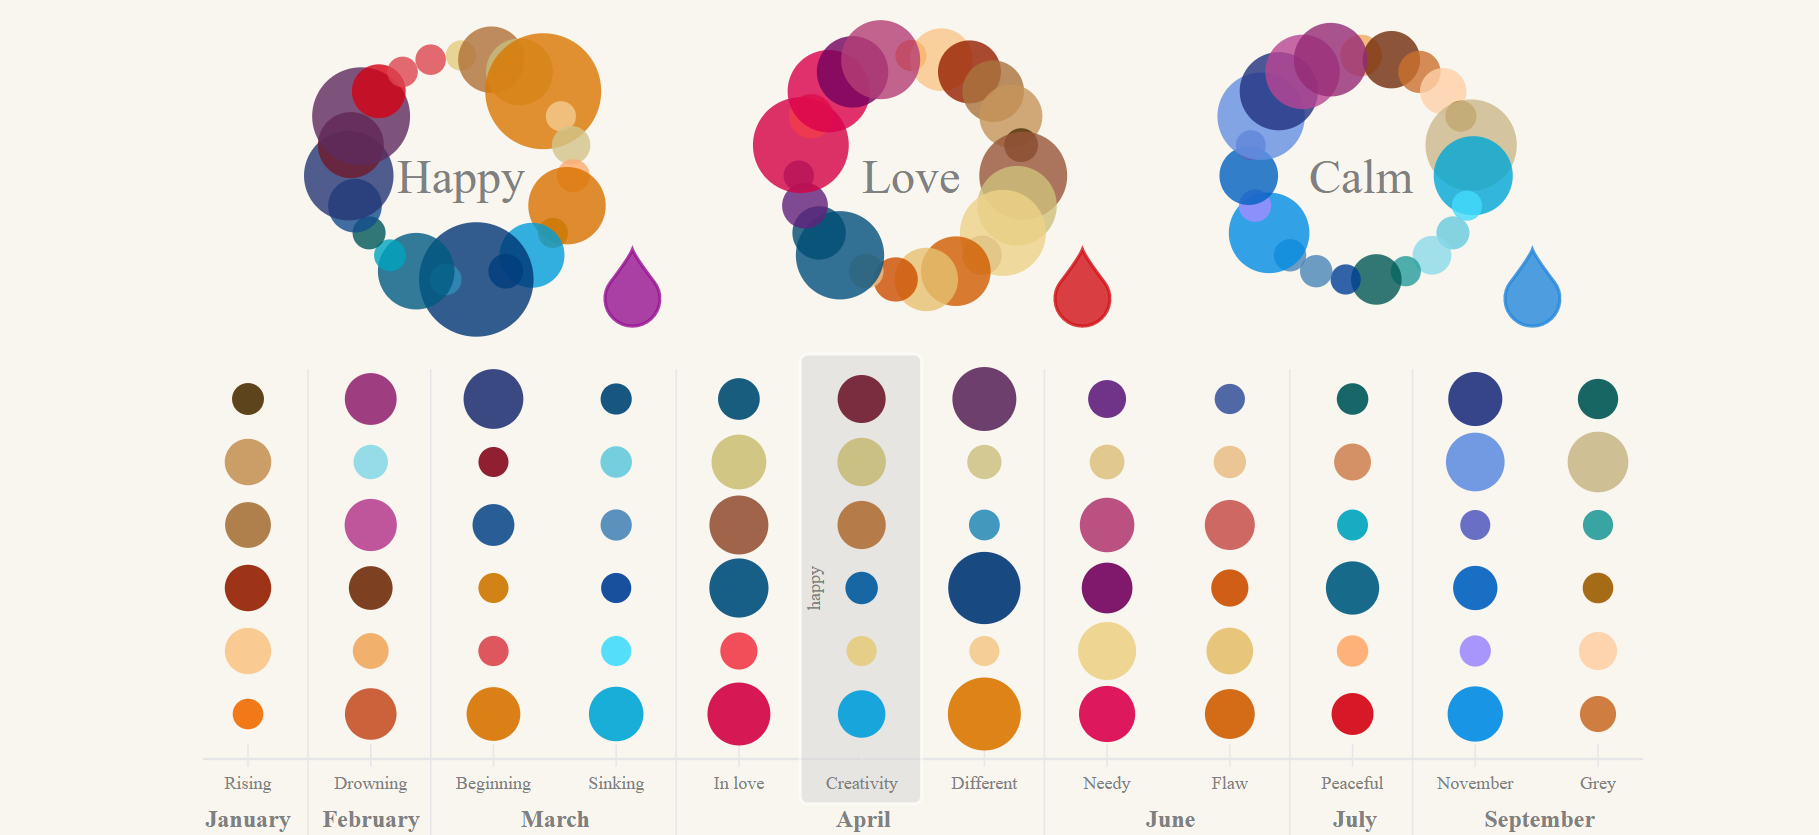
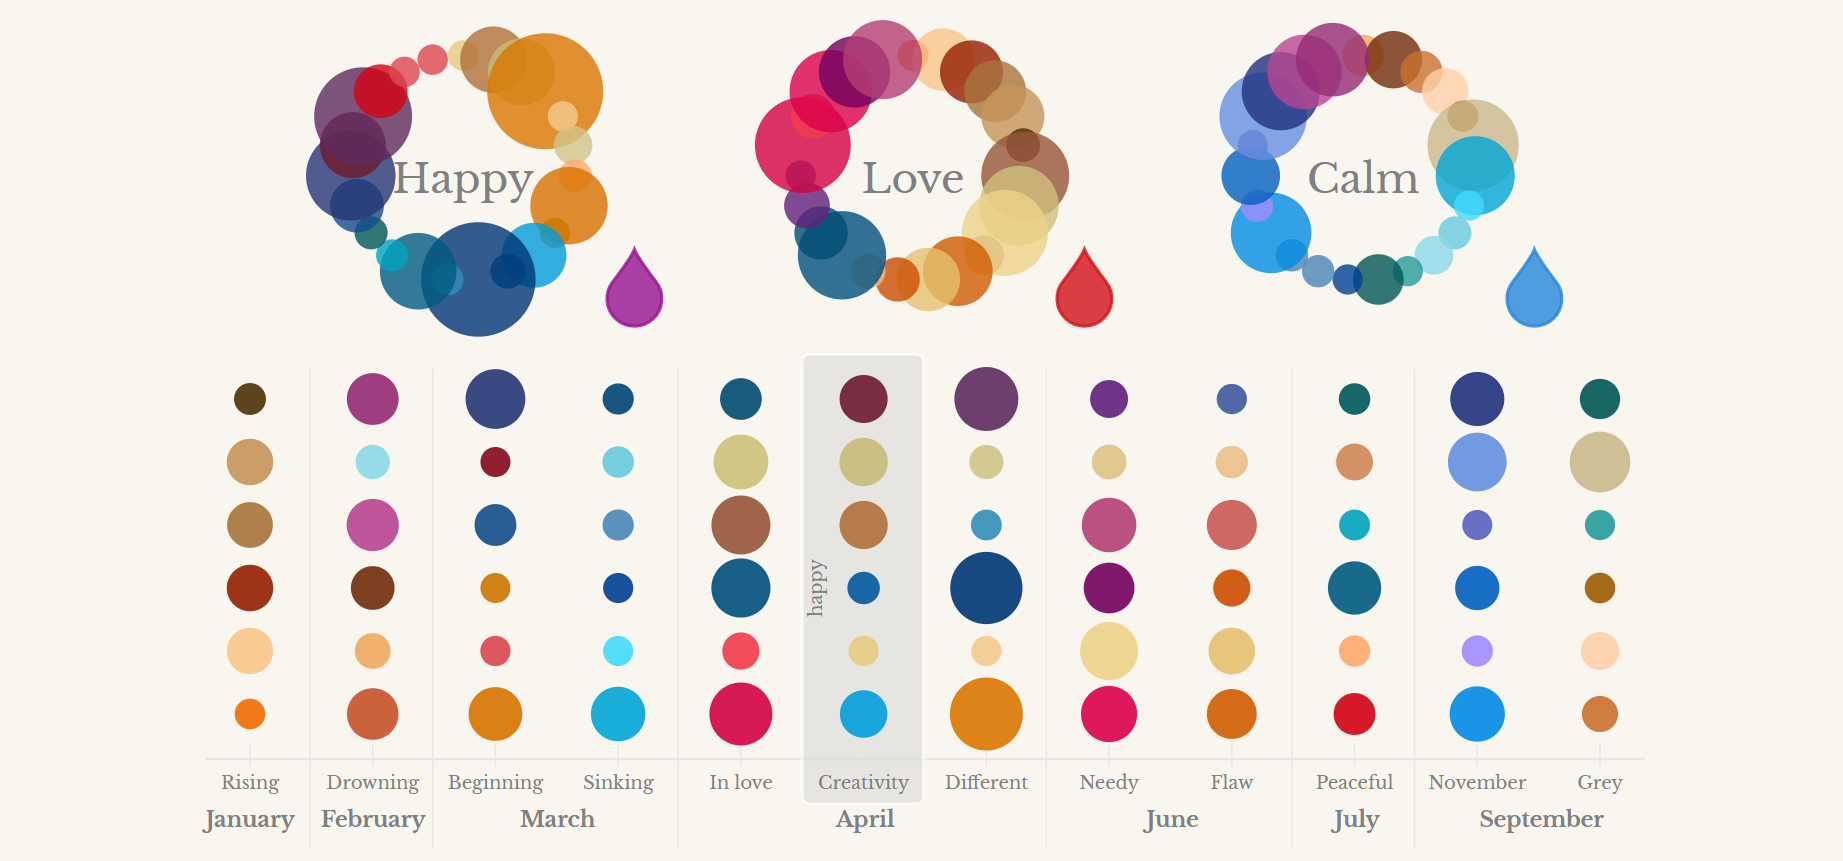
updated fonts

diff --git a/public/index.html b/public/index.html
@@ -3,6 +3,7 @@
   <head>
     <meta charset="utf-8" />
     <link rel="icon" href="%PUBLIC_URL%/favicon.ico" />
+    <link href="https://fonts.googleapis.com/css?family=Libre+Baskerville:400,700" rel="stylesheet" type="text/css">
     <meta name="viewport" content="width=device-width, initial-scale=1" />
     <meta name="theme-color" content="#000000" />
     <meta

diff --git a/src/BubbleLineChart.jsx b/src/BubbleLineChart.jsx
@@ -120,7 +120,7 @@ const BubbleLineChart = (props) => {
               key={`${idx}-month`}
               style={{
                 fontWeight: 700,
-                fontSize: "1rem",
+                fontSize: "0.9rem",
                 textAnchor: "middle",
                 transform: "translateY(25px)",
                 fill: "grey",

diff --git a/src/BubbleCircleChart.jsx b/src/BubbleCircleChart.jsx
@@ -50,7 +50,7 @@ const BubbleCircleChart = (props) => {
           x={size / 2}
           y={size / 1.8}
           style={{
-            fontSize: "2rem",
+            fontSize: "1.7rem",
             textAnchor: "middle",
             fill: "grey",
           }}
